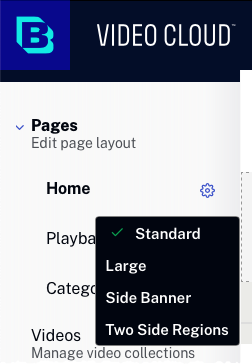
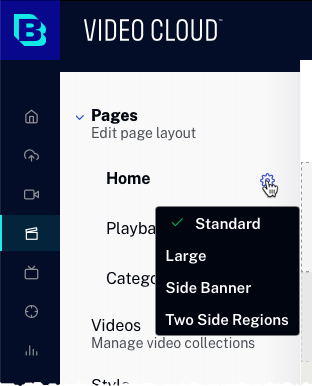
updates

diff --git a/experiences/portal/using-lead-form-portal-experience.html b/experiences/portal/using-lead-form-portal-experience.html
@@ -30,7 +30,7 @@ description: In this topic, you will learn how to configure a Campaign lead form
     <h2 id="create">Creating a lead form</h2>
     <p>Lead forms are created using the Campaign module. For complete steps to creating a lead form including all of the options that are available, see <a href="https://studio.support.brightcove.com/campaign/general/creating-campaign-lead-form.html">Creating a Campaign Lead Form</a>. To create a lead form, follow these steps:</p>
     <ol class="bcls-tasklist-restart">
-      <li>Open the Campaign module.</li>
+      <li>Open the <strong>Campaign</strong> module.</li>
       <li>Click <strong>Lead Forms</strong> in the left navigation.</li>
       <li>Click <strong>Create Lead Form</strong>.</li>
       <li>Enter a <strong>Name</strong> for the lead form.</li>
@@ -43,9 +43,9 @@ description: In this topic, you will learn how to configure a Campaign lead form
     <h2 id="assign">Assigning a lead form to a Campaign-enabled player</h2>
     <p>Lead forms can only be displayed in Campaign-enabled players. A Campaign-enabled player is a Brightcove Player that is configured with the Campaign plugin. Campaign-enabled players record video engagement data that can be viewed inside of the Campaign module. To create a Campaign-enabled-player, follow these steps:</p>
     <ol class="bcls-tasklist-restart">
-      <li>Open the Campaign module.</li>
+      <li>Open the <strong>Campaign</strong> module.</li>
       <li>Click <strong>Campaign Players</strong>.</li>
-      <li>Click <strong>Create Player</strong> to create a new Campaign-enabled player.
+      <li>Click <span class="button-blue">Create Player</span> to create a new Campaign-enabled player.
         <aside class="bcls-aside bcls-aside--information">Note: It is also possible to <a href="https://studio.support.brightcove.com/campaign/general/creating-campaign-enabled-player.html#existingplayer">add the Campaign plugin to an existing player</a>.</aside>
       </li>
       <li>Locate your player and use the <strong>Lead Form</strong> dropdown list to select the lead form to display. Players configured to use a MAP connection can only use custom lead forms. Players configured to use Campaign tracking can only use Campaign lead forms.
@@ -58,7 +58,7 @@ description: In this topic, you will learn how to configure a Campaign lead form
     <h2 id="configure">Configuring an experience to use a lead form</h2>
     <p>After a lead form has been created and assigned to a Campaign-enabled player, it can be used in a Portal Experience. To configure an experience to use a lead form, follow these steps:</p>
     <ol class="bcls-tasklist-restart">
-      <li>Open the Gallery module.</li>
+      <li>Open the <strong>Gallery</strong> module.</li>
       <li>Edit the experience that you want to add the lead form to.</li>
       <li>Click <strong>Video and Playback &gt; Player and Lead Form</strong> in the left navigation.</li>
       <li>Select a Campaign-enabled player that is configured with the lead form to display.

diff --git a/experiences/portal/downloading-videos-portal-experience.html b/experiences/portal/downloading-videos-portal-experience.html
@@ -25,9 +25,9 @@ description: 'In this topic you will learn how to provide the ability for viewer
     <h2 id="customfield">Creating a custom field to indicate downloadable content</h2>
     <p>Videos that can be downloaded are indicated by setting the value of a custom field. Start by creating a custom field in your account that will be used to indicate that a video can be downloaded.</p>
     <ol class="bcls-tasklist-restart">
-      <li>Log in to Video Cloud Studio.</li>
-      <li>In the navigation header, click <strong>ADMIN</strong> and then <strong>Video Fields</strong>. Note that you must be an account administrator to access to the ADMIN menu.</li>
-      <li>Click <strong>Add Custom Field</strong>.</li>
+      <li>Login to Video Cloud Studio.</li>
+      <li>Click <strong>Admin</strong> and then <strong>Video Fields</strong>. Note that you must be an account administrator to access to the Admin menu.</li>
+      <li>Click <span class="button-blue">Add Custom Field</span>.</li>
       <li>Create a new custom field that will be used to indicate whether a video can be downloaded or not. The name and value assigned do not matter. In the example below, a new custom field <strong>downloadable</strong> is being created. The <strong>Type</strong> is set to <strong>List</strong>, with 2 values, <strong>True</strong> and <strong>False</strong>. Videos that can be downloaded will have this value set to <strong>True</strong> as part of the video properties.
         <figure class="bcls-figure"><img class="bcls-image--no-border" alt="" src="/assets/images/experiences/portal/node14941-custom-field.png" /></figure>
         <aside class="bcls-aside bcls-aside--information">Note: For information on creating custom fields, see <a href="https://studio.support.brightcove.com/admin/creating-custom-metadata-fields.html">Creating Custom Metadata Fields</a>.</aside>
@@ -55,7 +55,7 @@ description: 'In this topic you will learn how to provide the ability for viewer
     <h2 id="configure">Configuring a Portal Experience to allow downloads</h2>
     <p>To configure a Portal Experience to allow video downloads, follow these steps.</p>
     <ol class="bcls-tasklist-restart">
-      <li>Open the Gallery module.</li>
+      <li>Open the <strong>Gallery</strong> module.</li>
       <li>Locate the experience and click <strong>Edit</strong>.</li>
       <li>Click <strong>Video and Playback &gt; Video </strong>in the left navigation.</li>
       <li>To indicate that videos to be downloaded are based upon a custom field, in the <strong>Video Download</strong> section, select the <strong>Provide a download link based on a custom field value</strong> option.</li>

diff --git a/experiences/portal/customizing-style-portal-experience.html b/experiences/portal/customizing-style-portal-experience.html
@@ -15,6 +15,7 @@ description: In this topic you will learn how to customize the style of a Portal
     <h2 id="theme">Selecting a theme</h2>
     <p>Selecting a <strong>Theme</strong> applies a predefined set of fonts and colors to the site. To change the site <strong>Theme</strong>:</p>
     <ol class="bcls-tasklist-restart">
+      <li>Edit the experience.</li>
       <li>Click <strong>Style</strong> in the left navigation.</li>
       <li>Select a <strong>Theme</strong> from the dropdown list. As you select a theme, the site will refresh so you can preview the theme.
         <figure class="bcls-figure"><img class="bcls-image--no-border" alt="" src="/assets/images/experiences/portal/node13568-theme.png" /></figure>
@@ -26,7 +27,8 @@ description: In this topic you will learn how to customize the style of a Portal
     <h2 id="color">Customizing colors</h2>
     <p>The <strong>Colors</strong> settings can be used to fine tune the colors that are provided by a theme. For example, color settings can be used to fine tune the background and font colors. To customize the <strong>Colors</strong>:</p>
     <ol class="bcls-tasklist-restart">
-      <li>Click <strong>Style</strong> icon in the left navigation. The <strong>Colors</strong> section will display all the page objects and their colors.
+      <li>Edit the experience.</li>
+      <li>Click <strong>Style</strong>  in the left navigation. The <strong>Colors</strong> section will display all the page objects and their colors.
         <figure class="bcls-figure"><img class="bcls-image--no-border" alt="" src="/assets/images/experiences/portal/node13568-color.png" /></figure>
       </li>
       <li>To select a new color, click on the color circle.</li>
@@ -41,6 +43,7 @@ description: In this topic you will learn how to customize the style of a Portal
     <h2 id="font">Selecting fonts</h2>
     <p>The fonts that are used on the site can also be changed. To select different fonts:</p>
     <ol class="bcls-tasklist-restart">
+      <li>Edit the experience.</li>
       <li>Click <strong>Style</strong> in the left navigation.</li>
       <li>Select new <strong>Fonts</strong> using the drop down lists.
         <figure class="bcls-figure"><img class="bcls-image--no-border" alt="" src="/assets/images/experiences/portal/node13568-fonts.png" /></figure>

diff --git a/experiences/portal/using-multi-lingual-metadata.html b/experiences/portal/using-multi-lingual-metadata.html
@@ -66,7 +66,7 @@ grandparent: Experiences
     <h2 id="add">Adding multi-lingual metadata</h2>
     <p>To add multi-lingual metadata to a video, follow these steps.</p>
     <ol class="bcls-tasklist-restart">
-      <li>Open the Media module.</li>
+      <li>Open the <strong>Media</strong> module.</li>
       <li><code translate="No"></code>Click the video title link to open the video properties page.</li>
       <li>Select the language to add metadata for using the language selector.
         <figure class="bcls-figure"><img class="bcls-image--no-border" alt="" src="/assets/images/experiences/portal/language-select-language.png" /></figure>
@@ -87,7 +87,7 @@ grandparent: Experiences
     <h2 id="exp-language">Setting the experience language</h2>
     <p>The <strong>Experience Language</strong> setting controls  the Gallery specific text that is displayed on the experience. To configure the <strong>Experience Language</strong>, follow these steps.</p>
     <ol class="bcls-tasklist-restart">
-      <li>Open the Gallery module.</li>
+      <li>Open the <strong>Gallery</strong> module.</li>
       <li>Click on an experience title to open the Gallery Site Editor.</li>
       <li>In the left navigation, click <strong>Overview</strong>.</li>
       <li>Select the <strong>Experience Language</strong>.
@@ -100,7 +100,7 @@ grandparent: Experiences
     <h2 id="local-metadata">Enabling localized video metadata</h2>
     <p>In order to have the multi-lingual video metadata appear, the <strong>Language</strong> setting for the experience must be configured.</p>
     <ol class="bcls-tasklist-restart">
-      <li>Open the Gallery module.</li>
+      <li>Open the <strong>Gallery</strong> module.</li>
       <li>Click on an experience title to open the Gallery Site Editor.</li>
       <li>In the left navigation, click on </li>
       <ul>

diff --git a/experiences/portal/overview-gallery-portal-templates.html b/experiences/portal/overview-gallery-portal-templates.html
@@ -162,7 +162,7 @@ description: This topic provides a reference to all of the Portal templates that
       <li>Category</li>
     </ul>
     <p>Click <a href="https://marquee.brightcovegallery.com">here</a> to see a sample site using the Marquee template. Page-level ads and calls to action are also supported.</p>
-    <p>The Marquee template also offers the ability to change the player layout for all of the pages by clicking on the <strong>Change Layout</strong> link next to the page name. The current layout is indicated with a check mark.</p>
+    <p>The Marquee template also offers the ability to change the player layout for all of the pages by clicking on the settings icon next to the page name. The current layout is indicated with a check mark.</p>
     <figure class="bcls-figure"><img class="bcls-image--no-border" alt="" src="/assets/images/experiences/portal/node13548-marquee-change-layout.png" /></figure>
     <p>The following layouts are available.</p>
     <ul>
